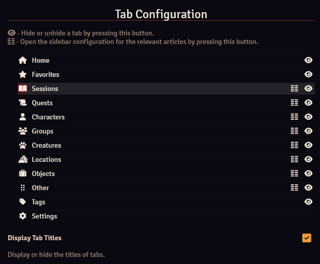
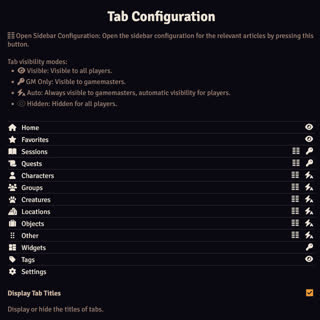
updated for v1.0.2

Changed region(s): [[0.0, 0.0303, 1.0, 1.0], [0.9375, 0.8788, 1.0, 0.9394], [0.9375, 0.2121, 1.0, 0.2424]]

diff --git a/docs/articles/articles.md b/docs/articles/articles.md
@@ -16,14 +16,16 @@ Changes can only be made to articles when it's in [edit mode](#playedit-mode).
 ### Article Types
 Worldbuilder has 8 different article types:
 
-* <b>Sessions</b>: For session descriptions & notes.
-* <b>Quests</b>: To describe quests.
-* <b>Characters</b>: To describe characters.
-* <b>Groups</b>: To describe groups, such as guilds, organizations, etc.
-* <b>Creatures</b>: To describe creatures (that don't fit in the Characters type).
-* <b>Locations</b>: To describe locations, such as countries, areas, cities or buildings.
-* <b>Object</b>: To describe objects, such as important items.
-* <b>Other</b>: For anything that does not fit in the other types.
+| Article Type  | Description                                                           |
+|---------------|-----------------------------------------------------------------------|
+| Sessions      | For session descriptions & notes                                      |
+| Quests        | To describe quests                                                    |
+| Characters    | To describe characters                                                |
+| Groups        | To describe groups, such as guilds, organizations, etc                |
+| Creatures     | To describe creatures (that don't fit in the Characters type)         |
+| Locations     | To describe locations, such as countries, areas, cities or buildings  |
+| Object        | To describe objects, such as important items                          |
+| Other         | For anything that does not fit in the other types                     |
 
 These article types aren't strictly enforced by Worldbuilder. They are all practically identical and the distinction is only there for convenience. The only real differences between article types are:
 
@@ -33,11 +35,13 @@ These article types aren't strictly enforced by Worldbuilder. They are all pract
 ### Header Buttons
 Each article has the following header buttons (at the top of the article):
 
-* <img src="../../img/article/playEditButton.png"> Mode Switch: To switch between [play and edit mode](#playedit-mode)
-* :fontawesome-solid-eye: Show Players: Show the article to your players, see [here](#sharing-articles)
-* :fontawesome-solid-passport: Copy UUID: Copy the UUID of the article to the clipboard
-* :fontawesome-solid-circle-question: Help: Open this documentation
-* :fontawesome-solid-x: Close Window: Close the article
+| Button                                            | Action                                                                |
+|---------------------------------------------------|-----------------------------------------------------------------------|
+| <img src="../../img/article/playEditButton.png">  | Mode Switch: To switch between [play and edit mode](#playedit-mode)   |
+| :fontawesome-solid-eye:                           | Show the article to your players, see [here](#sharing-articles)       |
+| :fontawesome-solid-passport:                      | Copy UUID: Copy the UUID of the article to the clipboard              |
+| :fontawesome-solid-circle-question:               | Help: Open this documentation                                         |
+| :fontawesome-solid-x:                             | Close Window: Close the article                                       |
 
 ### Creating, Deleting & Duplicating Articles
 You can create, delete or duplicate an article in one of the [article tabs](../mainApplication/articles.md) of the main application.
@@ -85,10 +89,26 @@ This will open the article for the selected users, regardless of the [ownership 
 
 <div class="clear"></div>
 
+### Creating Map Notes
+<div class="imgContainer"><img src="../../img/article/mapNote.png"></div>
+You can add Worldbuilder articles to the game canvas as map notes, just like Foundry journal notes. You can either drag article onto the canvas or create a new note through the Journal Notes control buttons.
+
+Either method will open the Create Map Note dialog, where you now have a new Note Type option where you can select between journal entries and Worldbuilder articles.
+
+!!! note "Worldbuilder Map Notes Journal Entry"
+    For map notes to be clickable, they need to have a journal entry assigned to them. For this reason, when you create a Worlbuilder map note, a journal entry is created. This journal entry does not do anything useful, but should not be deleted if you want your Worldbuilder map notes to work.
+
+<div class="clear"></div>
+
 ### Secrets
 Secrets are part of an article that are only visible to users with Owner or Observer [ownership](#ownership).<br>
-You can insert a secret into text sections by setting the text type to Secret (under Block), see [here](./pages.md#secrets) for more info.<br>
-Data in the [sidebar](#sidebar) can also be made secret, as is explained in that section.
+The following parts of an article can be made secret:
+
+* Article pages: Will hide a page, see [here](./pages.md#secrets)
+* Section of a page: Will hide part of a page, see [here](./pages.md#secrets)
+* Sidebar: The entire sidebar can be hidden, see [here](#sidebar)
+* Sidebar images: Will hide images in the sidebar, see [here](#images)
+* Sidebar options: Will hide options, see [here](#sidebar-options)
 
 ### Ownership
 <div class="imgContainer"><img src="../../img/article/ownershipConfig.png"></div>
@@ -133,6 +153,13 @@ The pages are the main text area of articles. See [here](./pages.md) for more in
 
 The sidebar of an article contains article [images](#images), [tags](#tags) and [sidebar options](#sidebar-options).
 
+In edit mode you can hide the sidebar or make it secret using the 2 buttons on the top-right:
+
+| Button                    | Action                                |
+|---------------------------|---------------------------------------|
+| :fontawesome-solid-eye:   | Hides or unhides the sidebar          |
+| :fontawesome-solid-key:   | Makes or unmakes the sidebar secret   |
+
 ### Images
 You can add one or more images to an article. The first image will be used as the article's image in the [main application](../mainApplication/mainApplication.md).
 
@@ -140,19 +167,19 @@ When there is more than 1 image configured, buttons will appear below the image 
 
 Clicking on an image in [play mode](#playedit-mode) will open the image in a separate window, which also has the option to show it to other players.
 
-The following actions can be done when the article is in [edit mode](#playedit-mode):
+While in edit mode, the following buttons are available:
 
-<b>Changing Images</b><br>
-Click on the image to open the image browser, where a new image can be selected.
+| Button                    | Action                            |
+|---------------------------|-----------------------------------|
+| :fontawesome-solid-eye:   | Hides or unhides the image        |
+| :fontawesome-solid-key:   | Makes or unmakes the image secret |
+| :fontawesome-solid-trash: | Deletes the image                 |
+| :fontawesome-solid-plus:  | Creates a new image               |
 
-<b>Adding Images</b><br>
-Click on the + button.
+Additionally, you can perform the following actions:
 
-<b>Removing Images</b><br>
-Click on the :fontawesome-solid-trash: icon.
-
-<b>Renaming Images</b><br>
-Click on the image's name to select the text editor, you can then type a new name.
+* <b>Changing Images</b>: Click on the image to open the image browser, where a new image can be selected
+* <b>Renaming Images</b>: Click on the image's name to select the text editor, you can then type a new name
 
 ### Tags
 You can add [tags](../tags.md) to an article. Clicking on a tag in [play mode](#playedit-mode) will open the [tag configuration](../tags.md#tag-configuration) for that tag.
@@ -175,13 +202,16 @@ The following actions can be done when the article is in [edit mode](#playedit-m
 <b>Changing an Option's Value</b><br>
 The way you change an option's value depends on the [type](./sidebarOptions.md#type) of the option:
 
-* <b>Textbox:</b> Enter in a new value.
-* <b>Number:</b> Enter in a new value.
-* <b>Select:</b> Select a value from the drop-down selector.
-* <b>Article:</b> Dragging an article from the [main application](../mainApplication/mainApplication.md) into the option's box.
-* <b>Article/Text:</b> Adding articles: Dragging an article from the [main application](../mainApplication/mainApplication.md) into the option's box. Adding text: Enter in a new value.
+| Option Type   | How to Change Value                                                                                           |
+|---------------|---------------------------------------------------------------------------------------------------------------|
+| Textbox       | Enter in a new value.                                                                                         |
+| Number        | Enter in a new value.                                                                                         |
+| Select        | Select a value from the drop-down selector.                                                                   |
+| Article       | Dragging an article from the [main application](../mainApplication/mainApplication.md) into the option's box. |
+| Article/Text  | Adding articles: Dragging an article from the [main application](../mainApplication/mainApplication.md) into the option's box.<br>Adding text: Enter in a new value.    |
 
 You can delete articles from options by pressing the :fontawesome-solid-trash: icon.
+The Article and Article/Text options also allow Foundry documents (e.g. actors, scenes, items, etc).
 
 <b>Hiding an Option</b><br>
 You can hide or unhide an option by clicking the :fontawesome-solid-eye: icon.

diff --git a/docs/articles/pages.md b/docs/articles/pages.md
@@ -8,19 +8,21 @@ If there is only 1 page, the page title will not be displayed.
 To make any changes to pages the article will need to be in [edit mode](./articles.md#playedit-mode).
 <div class="clear"></div>
 
-## Creating and Deleting Pages
+While in edit mode, you have access to the following buttons:
 <div class="imgContainer"><img src="../../img/article/createDeletePages.png"></div>
-Press the :material-plus: button to create a new page, press the :fontawesome-solid-trash: icon to delete a page.
 
-## Reordering Pages
-You can reorder pages by dragging one page button onto another.
+| Button                                        | Action                                                            |
+|-----------------------------------------------|-------------------------------------------------------------------|
+| :material-dots-square:<br>Or selected icon    | Opens the [Icon Picker](#icon-picker) to add an icon to the page  |
+| :fontawesome-solid-eye:                       | Hides or unhides the page                                         |
+| :fontawesome-solid-key:                       | Makes or unmakes the page secret                                  |
+| :fontawesome-solid-trash:                     | Deletes the page                                                  |
+| :fontawesome-solid-plus:                      | Creates a new page                                                |
 
-## Page Title
-Click the title to select the textbox, and rename it.
+Additionally, you can perform the following actions:
 
-## Page Icon
-You can add icons before the page title.<br>
-Press the :material-dots-square: icon (or previously selected icon) to open the [Icon Picker](#icon-picker).
+* <b>Reordering Pages</b>: You can reorder pages by dragging one page button onto another
+* <b>Changing a Page Title</b>: Click the title to select the textbox, and write the new name
 
 ## Text Editor
 <div class="imgContainer"><img src="../../img/article/textEditor.png"></div>
@@ -48,7 +50,7 @@ You could, for example, insert a button to open a different article, or insert a
 There are 3 ways to add page inserts to your page:
 
 1. Dragging a Foundry document, worldbuilder article, or worldbuilder widget onto the page. This will place the insert at the location of the cursor.
-2. Press the :fontawesome-solid-book-atlas: icon on the page editor toolbar, select the type of insert, and fill in the details in the popup.
+2. Press the :fontawesome-solid-globe: icon on the page editor toolbar, select the type of insert, and fill in the details in the popup.
 3. Manually entering the widget using the correct syntax (see below).
 
 ### Insert Syntax

diff --git a/docs/dataManagement.md b/docs/dataManagement.md
@@ -8,6 +8,8 @@ Worldbuilder provides 2 methods to prevent data loss, both accessible from the [
 * [Automatic Backups](#automatic-backups)
 * [Importing & Exporting Data](#importing-exporting)
 
+Worldbuilder also offers the option to use the same Worldbuilder data for multiple worlds on the same server through the [Data Id setting].
+
 ## Automatic Backups
 <div class="imgContainer"><img src="../img/settings/backups.png"></div>
 Worldbuilder can automatically create backups of your Worldbuilder data. These backups are stored locally on your Foundry server, and should therefore not be considered "safe backups". Deleting your Worldbuilder data folder or any other form of data loss (e.g. hard drive failure) will not save your data.
@@ -49,3 +51,21 @@ By pressing the "Import" button, you can select a `.worldbuilder` file to import
 
 !!! warning "Importing data will overwrite your current data and is irreversible"
     When you import data, your current data will be overwritten. This means that this data is not recoverable. It is advisable to first make a backup of your current data.
+
+<div class="clear"></div>
+
+## Data Id
+By default, each Foundry world has its own, independent, dataset for Worldbuilder. This means that articles in one world are not accessible to other worlds. You can change this by changing the data id in the [settings](./settings.md).
+
+The default data id is the same as the world's id. You can find your world's id in one of the following ways:
+
+* In the console, run `game.world.id`
+* <div class="imgContainer"><img src="../img/settings/worldId.png"></div>In the [Game Worlds](https://foundryvtt.com/article/game-worlds/) tab of the Foundry setup, right click your world and select Edit World. The world id will be the second textbox in the Data Path field (see the image).
+
+You can access the data from another world by setting that world's id as the Data Id. You will no longer have access to the Worldbuilder data that you had created using the original Data Id, but this data is not lost. Setting the Data Id back to that world's id will allow you to access that data again.
+
+When two or more worlds share Worldbuilder data, any changes are made bi-directionally. This means that changes in world 1 will also be visible in world 2, and vice versa.
+
+If you set Data Id to a value that is not an existing world id, a new dataset will be created.
+
+Currently, it is only possible to share all of Worldbuilder's data. Selectively sharing specific articles will be added in the future.

diff --git a/docs/settings.md b/docs/settings.md
@@ -3,10 +3,16 @@ The settings tab of the [main application](./mainApplication/mainApplication.md)
 ## Tab Configuration
 <div class="imgContainer"><img src="../img/settings/tabConfiguration.png"></div>
 
-The Tab Configuration section allows you to configure the tabs of the [main application](./mainApplication/mainApplication.md).
+The Tab Configuration section allows you to configure the tabs of the [main application](./mainApplication/mainApplication.md), and opening the [sidebar options configuration](./articles/sidebarOptions.md) for the relevant articles (:material-format-columns:).
 
-Press the :fontawesome-solid-eye: icon to hide or unhide tabs.<br>
-Press the :material-format-columns: icon to enter the [sidebar options configuration](./articles/sidebarOptions.md).
+You can configure which tabs are visible to whom by clicking the right-most icon, this will change the visibility mode:
+
+* :fontawesome-solid-eye: Visible: The tab will be visible to all players
+* :fontawesome-solid-key: GM Only: The tab will only be visible to gamemasters
+* :material-flash-auto: Auto: The tab will always be visible to gamemasters, and automatically for players (they will need to have at least one article with Limited [ownership](./articles/articles.md#ownership) or higher for the tab to show up)
+* :fontawesome-regular-eye: Hidden: The tab will be hidden to all players
+
+The visibility of the settings tab cannot be changed. It is not visible to players and always visible to gamemasters.
 
 <b>Display Tab Titles</b><br>
 When enabled, the titles of tabs will be displayed.
@@ -22,13 +28,16 @@ The Data Management section handles settings related to data management.
 Enter in the key name of your Worlbuilder folder to share the data with your players. See [here](./gettingStarted.md#the-forge) for more info.
 
 <b>Backups</b><br>
-See [here](./dataManagement.md).
+See [here](./dataManagement.md#automatic-backups).
 
 <b>Import/Export Data</b><br>
-See [here](./dataManagement.md).
+See [here](./dataManagement.md#importing-exporting).
 
 <b>Clear Data</b><br>
 Opens a dialog where you can select data to be cleared.
+
+<b>Data Id</b><br>
+Data id sets which Worldbuilder dataset to use. See [here](./dataManagement.md#data-id).
 
 <div class="clear"></div>
 

diff --git a/docs/changelog.md b/docs/changelog.md
@@ -1,5 +1,32 @@
 Changes between module versions are documented here.<br>
 
+??? changelog "v1.0.2 - 18-10-2025"
+    ### Additions
+    * You can now open Worldbuilder articles through map notes. Dropping articles on a scene will automatically create a map note.
+    * You can now drag Foundry documents (actors, items, etc) onto a "Article" or "Article/Text" sidebar option.
+    * Added hotkeys to open/close the Worldbuilder application (Alt+W) and to close all Worldbuilder windows (Alt+A), can be configured in Foundry's Controls Configuration.
+    * Added a control button to open Worldbuilder.
+    * Added new tab visibility modes for the main application: Besides showing and hiding tabs, you can make them GM-only, or hide them when a player has no relevant articles that they can see.
+    * Added a new Data Id setting, which allows you to share your Worldbuilder data between different worlds on the same server.
+    * Article pages and images can now be made secret or hidden.
+    * The entire article sidebar can be made secret or hidden.
+
+    ### Fixes
+    * Fixed UI bug for the main app tabs when using Carolingian UI.
+    * Fixed issue with user notes not saving.
+    * Fixed an issue when trying to clear data in v12 that would prevent Worldbuilder from loading.
+    * Clear Data button now works in v13.
+    * Fixed issue where linked documents in articles could not be deleted.
+    * If there were too many article pages or images that the page/image buttons would be wider than the enclosing element, the left-most button(s) would be (parially) unreachable. This is now fixed.
+    * Forbidden Lands: The article images section would not be displayed if there were no images configured. This is now fixed.
+    * Asset folder on Sqyre servers should now be accessible through the Worldbuilder file picker.
+
+    ### Other Changes
+    * Changed Worldbuilder icon (in Settings sidebar) to a globe.
+
+??? changelog "v1.0.1 - 18-10-2025"
+    Something went wrong with this release, so it was removed.
+
 ??? changelog "v1.0.0 - 15-10-2025"
     Initial release.
     

diff --git a/docs/mainApplication/mainApplication.md b/docs/mainApplication/mainApplication.md
@@ -2,7 +2,12 @@
 
 The main application of Worldbuilder is the starting point for everything you do with the module. It shows all articles, categorized by article types, allows you to open and create articles, and more.
 
-To open the application, head the Game Settings sidebar tab (:material-cogs:), look for the Material Foundry section and press the :fontawesome-solid-book-atlas: Worldbuilder button.
+To open the application, you have 4 options:
+
+* Control Button: Click the Worldbuilder (:fontawesome-solid-globe:) control button (on the left of the screen)
+* Hotkey: Use the hotkey `Alt+W`, this hotkey can be configured in Contigure Controls in the Game Settings sidebar tab (:material-cogs:)
+* Sidebar: Head the Game Settings sidebar tab (:material-cogs:), look for the Material Foundry section and press the :fontawesome-solid-globe: Worldbuilder button
+* API: Call `worldbuilder.api.open()`
 
 <div class="imgContainer center">
     <img src="../../img/mainApp/mainApp.png">

diff --git a/docs/roadmap.md b/docs/roadmap.md
@@ -60,6 +60,10 @@ Widgets are objects that can be inserted into an article as an interactive eleme
     For example, actors could bundle a character article, scenes could bundle a location article, etc.<br>
     Ideally, entire campaigns could be imported.
 
+??? changelog "Selective Article Sharing Between Different Worlds"
+    Right now it is possible to share all Worldbuilder data between different worlds on the same server (see [here](./dataManagement.md#data-id)).<br>
+    This feature will add a way to configure this on an article-by-article basis. So if you run multiple games with the same campaign, you could share all NPC characters, locations, etc between the different worlds, while keeping PC characters and other articles relevant to specific games separate.
+
 ## Other
 
 ??? changelog "Calendar System"

diff --git a/docs/quickStart.md b/docs/quickStart.md
@@ -9,7 +9,7 @@ This guide assumes that you've gone through the [getting started](./gettingStart
 <div class="imgContainer"><img src="../img/mainApp/articles.png"></div>
 The main application of Worldbuilder is the starting point for everything you do with the module. It shows all articles, categorized by article types, allows you to open and create articles, and more.
 
-To open the application, head the Game Settings sidebar tab (:material-cogs:), look for the Material Foundry section and press the :fontawesome-solid-book-atlas: Worldbuilder button.
+To open the application, click the :fontawesome-solid-globe: control button (on the left of the screen).
 
 On the right of the application you will find multiple tabs, clicking these will display the corresponding data in the main section of the application.
 

diff --git a/docs/widgets/map.md b/docs/widgets/map.md
@@ -20,7 +20,7 @@ The configuration sidebar has 3 tabs:
 
 * <b>[Basics](#basics):</b> Basic widget configuration, such as the image source, widget name and view position
 * <b>[Items](#items):</b> Configuring map items
-* <b>[Legend](#legend-1):</b> Configurating the map legend
+* <b>[Legend](#legend_1):</b> Configurating the map legend
 
 ## Basics
 <div class="imgContainer" style="max-width:50%"><img src="../../img/widgets/map-config-basics.png"></div>

diff --git a/docs/index.md b/docs/index.md
@@ -28,6 +28,7 @@ Want to try it first? Give the free [demo](./demo.md) version a try.
 ## Combatibility
 
 <b>Foundry VTT</b>: v12-v13<br>
+<b>System incompatibilities</b>: None known<br>
 <b>Module incompatibilities</b>: None known
 
 ## Feedback & Issues
